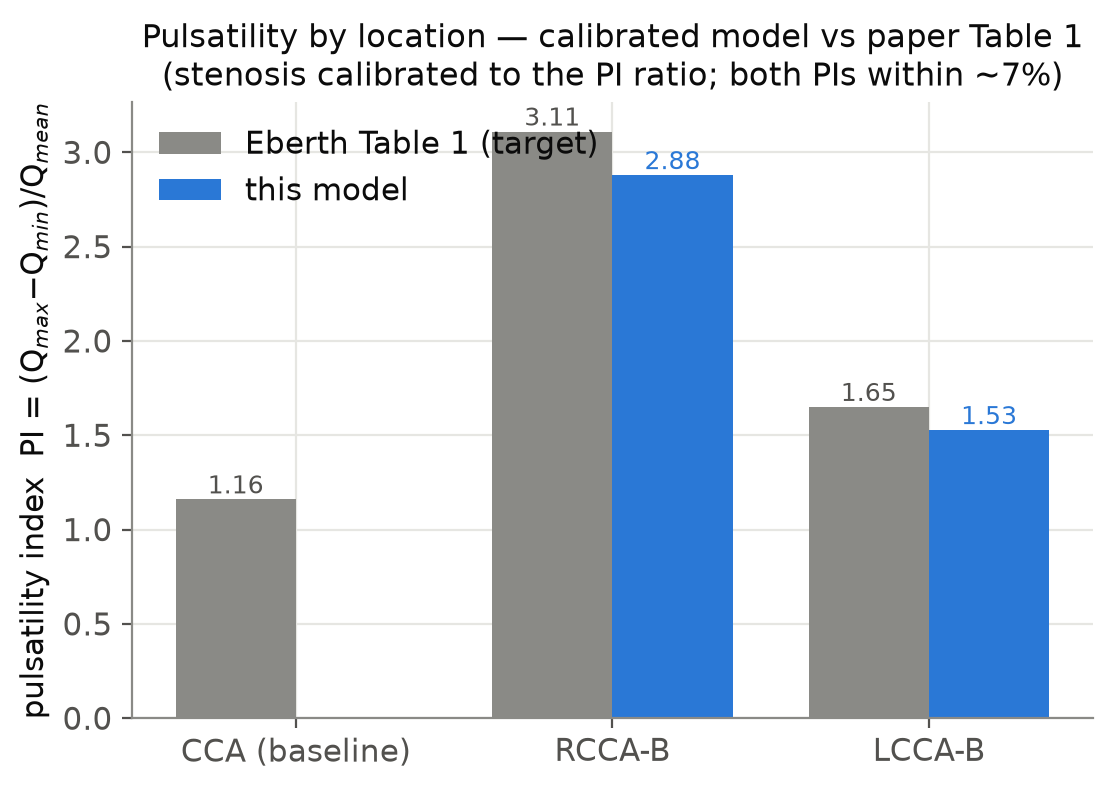
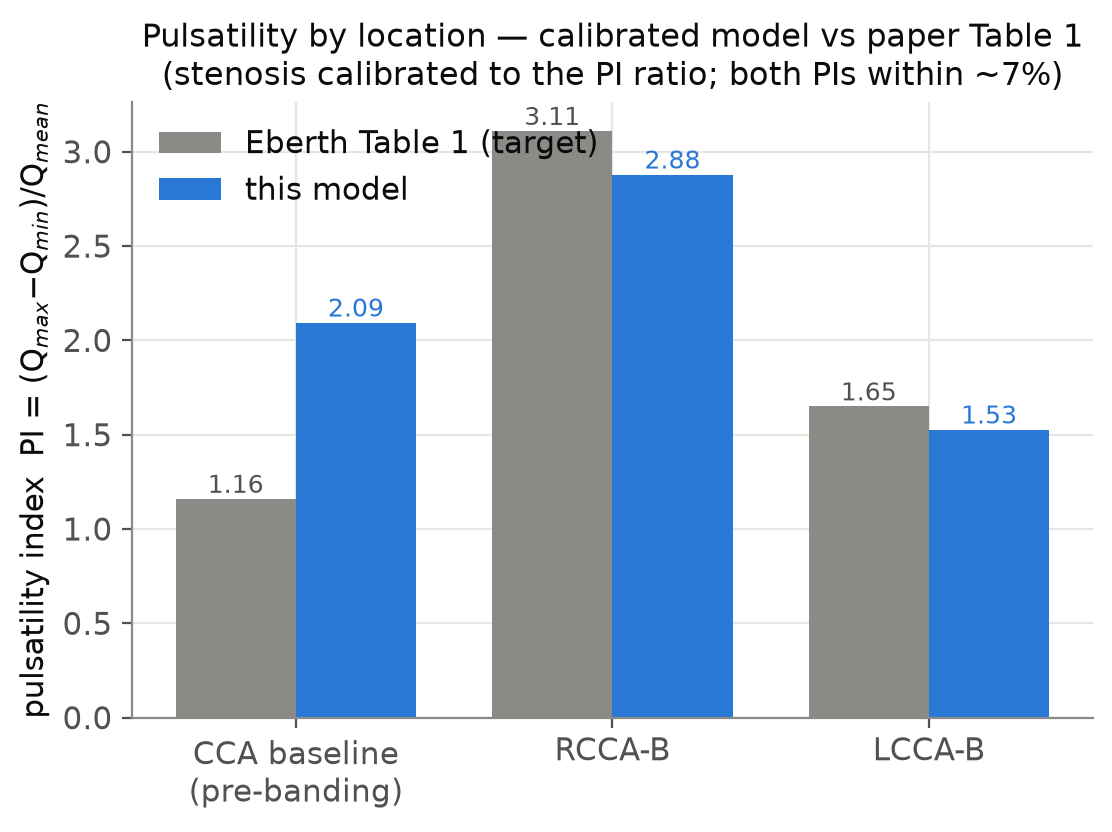
Add pre-banding to figures (3-state comparison + PI baseline bar)
- New fig7_state_comparison.png: pre-banding | acute | chronic carotid
  pressure panels, showing the split appears on banding and remodeling
  barely changes it.
- fig4 PI-validation now includes the pre-banding model bar in the CCA
  baseline group (model 2.09 vs paper 1.16).
- make_figures.py simulates all three states; model card figure list updated.

Changed region(s): [[0.0, 0.0304, 0.9784, 0.9734], [0.7032, 0.4563, 0.9478, 0.5475]]

diff --git a/examples/make_figures.py b/examples/make_figures.py
@@ -47,6 +47,13 @@ segs = {"ascending_aorta": "Ascending aorta", "rcca_b": "RCCA-B (node A, upstrea
         "aortic_band": "Band", "lcca_b": "LCCA-B (node B, downstream)",
         "descending_aorta": "Descending aorta"}
 
+# also simulate the pre-banding and acute states (for the PI chart + comparison)
+df_pre = pysvzerod.simulate(f"{REPO}/examples/eberth_aortic_band_prebanding.json")
+df_acu = pysvzerod.simulate(f"{REPO}/examples/eberth_aortic_band_acute.json")
+def PI_df(d, seg):
+    q = d[d.name == seg].flow_in
+    return (q.max() - q.min()) / q.mean()
+
 # =====================================================================
 # FIG 1 — Pressure waveforms: node A (RCCA-B) vs node B (LCCA-B)
 # =====================================================================
@@ -108,10 +115,11 @@ def PI(seg):
     d = last_cycle(df, seg); q = d.flow_in
     return (q.max() - q.min()) / q.mean()
 model = {"RCCA-B": PI("rcca_b"), "LCCA-B": PI("lcca_b")}
+pi_pre = PI_df(df_pre, "rcca_b")   # pre-banding baseline (carotids symmetric)
 target = {"CCA (baseline)": 1.16, "RCCA-B": 3.11, "LCCA-B": 1.65}
-labels = ["CCA (baseline)", "RCCA-B", "LCCA-B"]
-tvals = [target[k] for k in labels]
-mvals = [np.nan, model["RCCA-B"], model["LCCA-B"]]
+labels = ["CCA baseline\n(pre-banding)", "RCCA-B", "LCCA-B"]
+tvals = [1.16, 3.11, 1.65]
+mvals = [pi_pre, model["RCCA-B"], model["LCCA-B"]]
 x = np.arange(len(labels)); w = 0.38
 fig, ax = plt.subplots(figsize=(6.2, 4.0))
 b1 = ax.bar(x - w/2, tvals, w, color=MUTED, label="Eberth Table 1 (target)")
@@ -174,7 +182,31 @@ ax.set_title("Sensitivity: band severity sets the pulsatility split", fontsize=1
 ax.legend(loc="center right")
 fig.savefig(f"{OUT}/fig6_severity_sweep.png"); plt.close(fig)
 
+# =====================================================================
+# FIG 7 — Three-state comparison: pre-banding → acute → chronic
+# =====================================================================
+states = [("Pre-banding (healthy)", df_pre),
+          ("Acute (post-band)", df_acu),
+          ("Chronic (remodeled)", df)]
+fig, axes = plt.subplots(1, 3, figsize=(12.6, 4.6), sharey=True, constrained_layout=True)
+for ax, (title, d) in zip(axes, states):
+    aa = d[d.name == "rcca_b"].sort_values("time"); bb = d[d.name == "lcca_b"].sort_values("time")
+    tt = aa.time.min()
+    ax.plot(aa.time - tt, aa.pressure_in, color=BLUE, lw=LW, label="RCCA(-B) upstream")
+    ax.plot(bb.time - tt, bb.pressure_in, color=GREEN, lw=LW, label="LCCA(-B) downstream")
+    ppa = aa.pressure_in.max() - aa.pressure_in.min()
+    ppb = bb.pressure_in.max() - bb.pressure_in.min()
+    pir = PI_df(d, "rcca_b"); pil = PI_df(d, "lcca_b")
+    ax.set_title(f"{title}\nPP {ppa:.0f}/{ppb:.0f} mmHg  ·  PI {pir:.1f}/{pil:.1f}", fontsize=10.5, color=INK)
+    ax.set_xlabel("time in cycle  [s]")
+axes[0].set_ylabel("pressure  [mmHg]")
+axes[0].legend(loc="upper right", fontsize=9)
+fig.suptitle("Carotid pressure: healthy → banded → remodeled  (band creates the split immediately; remodeling barely changes it)",
+             fontsize=12, color=INK)
+fig.savefig(f"{OUT}/fig7_state_comparison.png"); plt.close(fig)
+
 print("PI model:", {k: round(v,2) for k,v in model.items()})
+print("pre-banding PI (symmetric):", round(pi_pre, 2))
 print("pulse pressures [sys,dia,mean] along path:")
 for seg,s,d_,m in zip(path,sysP,diaP,meanP):
     print(f"  {seg:18s} sys={s:.1f} dia={d_:.1f} mean={m:.1f} pp={s-d_:.1f}")

diff --git a/examples/eberth_aortic_band_model.md b/examples/eberth_aortic_band_model.md
@@ -187,6 +187,7 @@ uv run python examples/make_figures.py
 | `figures/fig4_PI_validation.png` | Pulsatility index by location, model vs Eberth Table 1 targets. |
 | `figures/fig5_pressure_envelope.png` | Systolic/diastolic/mean pressure along the aortic path — pulse pressure collapses across the band, MAP stays ~flat. |
 | `figures/fig6_severity_sweep.png` | Sensitivity: PI upstream vs downstream as band severity (`stenosis_coefficient`) is swept. |
+| `figures/fig7_state_comparison.png` | Three-state comparison (pre-banding → acute → chronic): carotid pressure is symmetric before banding, splits immediately on banding, and barely changes with remodeling. |
 
 ![Pressure waveforms](./figures/fig1_pressure_waveforms.png)
 ![Band characteristic](./figures/fig3_band_deltaP_Q.png)
